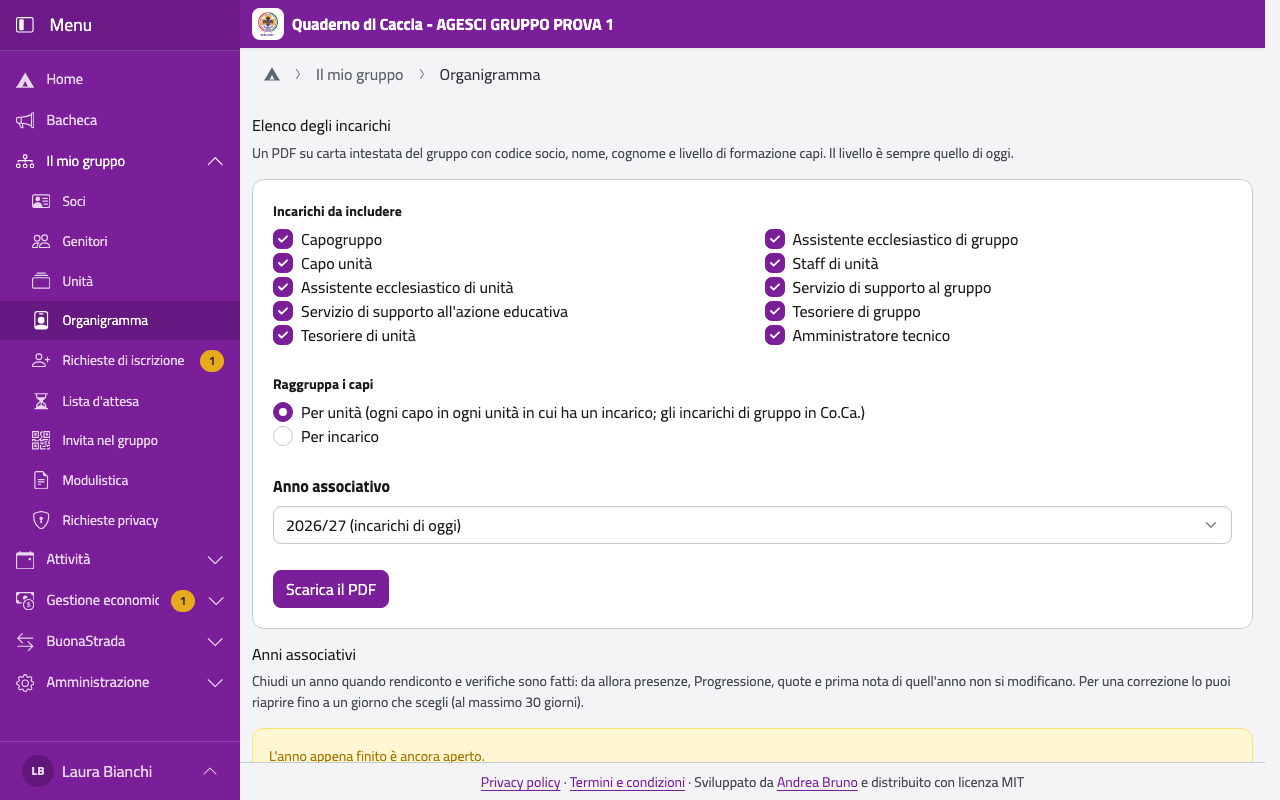
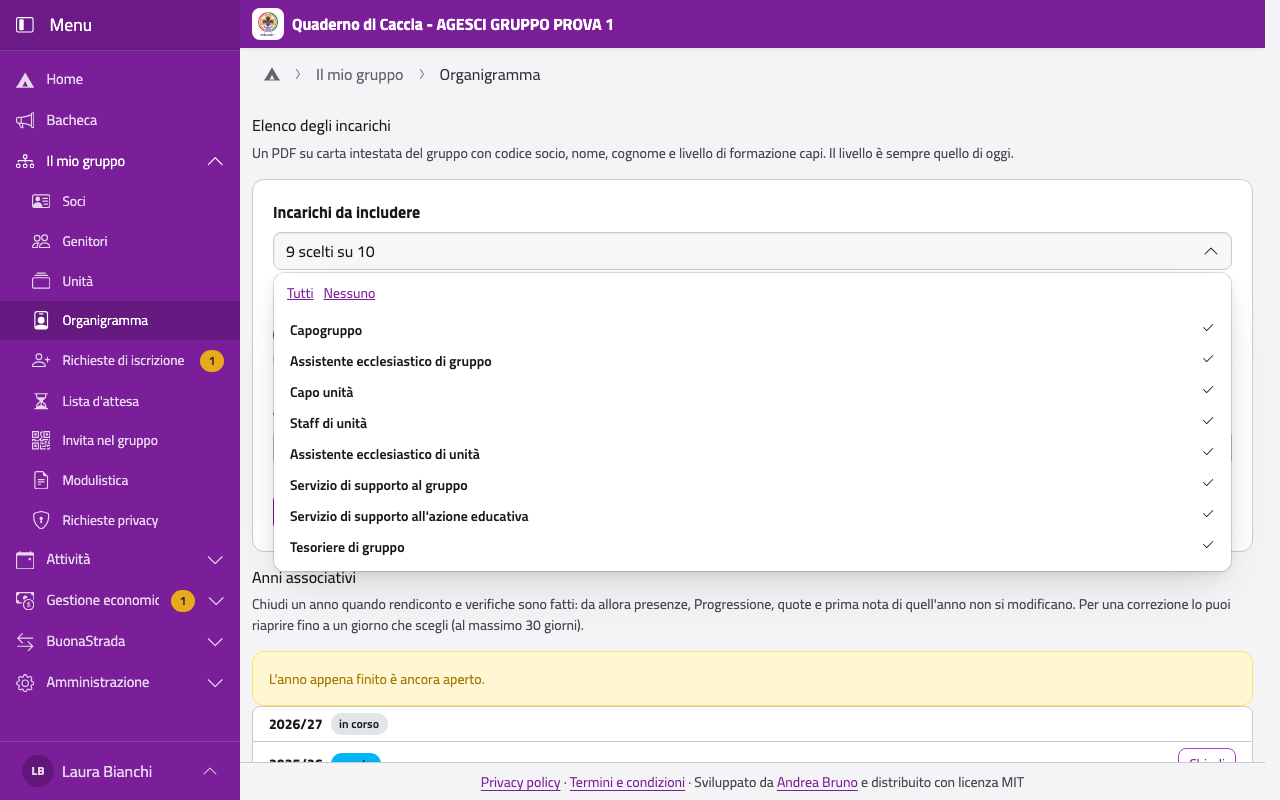
Roles PDF: the kinds of role chosen from a multiple-choice drop-down
Claude-Session: https://claude.ai/code/session_01FnZgpZGrP1XpFxzNCreMTh

Changed region(s): [[0.1875, 0.25, 1.0, 0.9688], [0.5938, 0.2812, 0.8125, 0.4375], [0.9375, 0.3125, 0.9688, 0.3438]]

diff --git a/frontend/src/components/SceltaMultipla.vue b/frontend/src/components/SceltaMultipla.vue
@@ -1,0 +1,88 @@
+<script setup lang="ts">
+import Menu from 'bootstrap/js/dist/menu.js'
+import { computed, onBeforeUnmount, onMounted, ref } from 'vue'
+
+import Icona from '@/components/Icona.vue'
+
+// Several choices from a drop-down list (DEC-306): Bootstrap 6's combobox markup with
+// its menu, the choice kept here (Bootstrap's own combobox writes its summary in
+// English). The menu stays open while ticking.
+const props = defineProps<{ id: string; scelte: { valore: string; nome: string }[] }>()
+const valori = defineModel<string[]>({ required: true })
+
+const pulsante = ref<HTMLButtonElement | null>(null)
+const menu = ref<HTMLElement | null>(null)
+let tendina: Menu | null = null
+
+onMounted(() => {
+  if (pulsante.value && menu.value) {
+    tendina = new Menu(pulsante.value, { menu: menu.value, autoClose: 'outside' })
+    pulsante.value.addEventListener('show.bs.menu', allarga)
+  }
+})
+
+onBeforeUnmount(() => {
+  pulsante.value?.removeEventListener('show.bs.menu', allarga)
+  tendina?.dispose()
+})
+
+// As wide as the field it opens from.
+function allarga() {
+  if (pulsante.value && menu.value) menu.value.style.width = `${pulsante.value.offsetWidth}px`
+}
+
+const riepilogo = computed(() => {
+  const n = valori.value.length
+  if (n === 0) return 'Nessuno'
+  if (n === props.scelte.length) return 'Tutti'
+  if (n === 1) return props.scelte.find((s) => s.valore === valori.value[0])?.nome ?? '1 scelto'
+  return `${n} scelti su ${props.scelte.length}`
+})
+
+function cambia(valore: string) {
+  valori.value = valori.value.includes(valore)
+    ? valori.value.filter((v) => v !== valore)
+    : // In the order of the list, whatever the order of the taps.
+      props.scelte.map((s) => s.valore).filter((v) => v === valore || valori.value.includes(v))
+}
+
+const tutti = (si: boolean) => (valori.value = si ? props.scelte.map((s) => s.valore) : [])
+</script>
+
+<template>
+  <div>
+    <button
+      :id="id"
+      ref="pulsante"
+      type="button"
+      class="form-control combobox-toggle"
+      data-bs-toggle="menu"
+      aria-haspopup="listbox"
+      aria-expanded="false"
+    >
+      <span class="combobox-value" :class="{ 'combobox-placeholder': !valori.length }">
+        {{ riepilogo }}
+      </span>
+      <Icona nome="chevron-down" class="combobox-caret" />
+    </button>
+    <div ref="menu" class="menu" role="listbox" aria-multiselectable="true">
+      <div class="d-flex gap-3 px-3 pb-1 small">
+        <button type="button" class="btn btn-link btn-sm p-0" @click="tutti(true)">Tutti</button>
+        <button type="button" class="btn btn-link btn-sm p-0" @click="tutti(false)">Nessuno</button>
+      </div>
+      <button
+        v-for="s in scelte"
+        :key="s.valore"
+        type="button"
+        class="menu-item"
+        role="option"
+        :class="{ selected: valori.includes(s.valore) }"
+        :aria-selected="valori.includes(s.valore)"
+        @click="cambia(s.valore)"
+      >
+        <span class="menu-item-content">{{ s.nome }}</span>
+        <Icona nome="check2" class="menu-item-check" />
+      </button>
+    </div>
+  </div>
+</template>

diff --git a/frontend/src/__tests__/scelta-multipla.spec.ts b/frontend/src/__tests__/scelta-multipla.spec.ts
@@ -1,0 +1,59 @@
+import { mount } from '@vue/test-utils'
+import { describe, expect, it } from 'vitest'
+
+import SceltaMultipla from '@/components/SceltaMultipla.vue'
+
+const SCELTE = [
+  { valore: 'A', nome: 'Capogruppo' },
+  { valore: 'B', nome: 'Staff' },
+  { valore: 'C', nome: 'Tesoriere' },
+]
+
+const monta = (valori: string[]) =>
+  mount(SceltaMultipla, {
+    attachTo: document.body,
+    props: {
+      id: 'prova',
+      scelte: SCELTE,
+      modelValue: valori,
+      'onUpdate:modelValue': (v: string[]) => monta.ultimo.push(v),
+    },
+  })
+monta.ultimo = [] as string[][]
+
+describe('SceltaMultipla', () => {
+  it('sums up the choice in Italian', async () => {
+    const scelta = monta(['A', 'B', 'C'])
+    expect(scelta.get('.combobox-value').text()).toBe('Tutti')
+    await scelta.setProps({ modelValue: ['B'] })
+    expect(scelta.get('.combobox-value').text()).toBe('Staff')
+    await scelta.setProps({ modelValue: ['A', 'C'] })
+    expect(scelta.get('.combobox-value').text()).toBe('2 scelti su 3')
+    await scelta.setProps({ modelValue: [] })
+    expect(scelta.get('.combobox-value').text()).toBe('Nessuno')
+    scelta.unmount()
+  })
+
+  it('ticks and unticks, keeping the order of the list', async () => {
+    monta.ultimo = []
+    const scelta = monta(['C'])
+    const voci = scelta.findAll('[role="option"]')
+    expect(voci[2]!.attributes('aria-selected')).toBe('true')
+    await voci[0]!.trigger('click')
+    expect(monta.ultimo.at(-1)).toEqual(['A', 'C'])
+    await voci[2]!.trigger('click')
+    expect(monta.ultimo.at(-1)).toEqual([])
+    scelta.unmount()
+  })
+
+  it('chooses all or none at once', async () => {
+    monta.ultimo = []
+    const scelta = monta(['B'])
+    const [tutti, nessuno] = scelta.findAll('.menu button.btn-link')
+    await tutti!.trigger('click')
+    expect(monta.ultimo.at(-1)).toEqual(['A', 'B', 'C'])
+    await nessuno!.trigger('click')
+    expect(monta.ultimo.at(-1)).toEqual([])
+    scelta.unmount()
+  })
+})

diff --git a/frontend/src/components/StampaIncarichi.vue b/frontend/src/components/StampaIncarichi.vue
@@ -2,6 +2,7 @@
 import { computed, onMounted, ref } from 'vue'
 
 import { api, elencoIncarichiPdf, type OpzioniElencoIncarichi } from '@/api/qdc'
+import SceltaMultipla from '@/components/SceltaMultipla.vue'
 import { useErrore } from '@/composables/useErrore'
 
 // The PDF list of the group's roles, for the capigruppo (DEC-284): the kinds of role,
@@ -36,21 +37,14 @@ const indirizzo = computed(() =>
   </p>
   <div v-if="errore" class="alert theme-danger small" role="alert">{{ errore }}</div>
   <div v-if="opzioni" class="card card-body">
-    <fieldset class="mb-5">
-      <legend class="small fw-bold">Incarichi da includere</legend>
-      <div class="row">
-        <div v-for="r in opzioni.ruoli" :key="r.valore" class="col-12 md:col-6 form-field">
-          <input
-            :id="`elenco-${r.valore}`"
-            v-model="scelti"
-            type="checkbox"
-            class="check"
-            :value="r.valore"
-          />
-          <label :for="`elenco-${r.valore}`">{{ r.nome }}</label>
-        </div>
-      </div>
-    </fieldset>
+    <div class="mb-5">
+      <label for="elenco-ruoli" class="form-label small fw-bold">Incarichi da includere</label>
+      <SceltaMultipla
+        id="elenco-ruoli"
+        v-model="scelti"
+        :scelte="opzioni.ruoli.map((r) => ({ valore: r.valore, nome: r.nome }))"
+      />
+    </div>
     <fieldset class="mb-5">
       <legend class="small fw-bold">Raggruppa i capi</legend>
       <div class="form-field">

diff --git a/frontend/src/navigazione/icone.ts b/frontend/src/navigazione/icone.ts
@@ -16,6 +16,7 @@ import calendar3 from 'bootstrap-icons/icons/calendar3.svg?raw'
 import cashCoin from 'bootstrap-icons/icons/cash-coin.svg?raw'
 import cash from 'bootstrap-icons/icons/cash.svg?raw'
 import chatText from 'bootstrap-icons/icons/chat-text.svg?raw'
+import check2 from 'bootstrap-icons/icons/check2.svg?raw'
 import check2Square from 'bootstrap-icons/icons/check2-square.svg?raw'
 import chevronDown from 'bootstrap-icons/icons/chevron-down.svg?raw'
 import chevronLeft from 'bootstrap-icons/icons/chevron-left.svg?raw'
@@ -99,6 +100,7 @@ export const ICONE = {
   cash: cash,
   'cash-coin': cashCoin,
   'chat-text': chatText,
+  check2: check2,
   'check2-square': check2Square,
   'chevron-down': chevronDown,
   'chevron-left': chevronLeft,

diff --git a/frontend/scripts/schermate.ts b/frontend/scripts/schermate.ts
@@ -687,10 +687,16 @@ const SCENE: Scena[] = [
   },
   { nome: 'gruppo/incarichi', chi: 'capogruppo', percorso: '/gruppo', intera: true },
   {
+    // The menu of the kinds of role open, one of them unticked.
     nome: 'gruppo/elenco-incarichi',
     chi: 'capogruppo',
     percorso: '/gruppo',
     mostra: 'Elenco degli incarichi',
+    prepara: async (pagina) => {
+      await pagina.locator('#elenco-ruoli').click()
+      await pagina.locator('#elenco-ruoli + .menu [role=option]').last().click()
+      await pagina.locator('#elenco-ruoli + .menu').evaluate((m) => (m.scrollTop = 0))
+    },
   },
   { nome: 'gruppo/impostazioni', chi: 'capogruppo', percorso: '/impostazioni', intera: true },
   {

diff --git a/TODO.md b/TODO.md
@@ -285,12 +285,13 @@ negli aggiornamenti che partono dalla 1.10.
 Richieste del maintainer del 03/11, solo annotate: si sviluppano quando il maintainer dice di
 partire. Risposte alle domande date il 03/11; il maintainer ha detto di partire il 03/11, DEC-306…DEC-315 nell'analisi. Ordine: N.49, N.40, N.48, N.46, N.47, N.42, N.43, N.41, N.44, N.45.
 
-#### N.40 — Organigramma: tipi di incarico scelti da un menu a selezione multipla ⏳ (DEC-306)
+#### N.40 — Organigramma: tipi di incarico scelti da un menu a selezione multipla ✅ 03/11 (DEC-306)
 
 Nel PDF dell'organigramma i tipi di incarico da includere si scelgono oggi con caselle di
 spunta: al loro posto un menu a tendina con più scelte (combobox). **Solo lì** (deciso il 03/11):
-l'assegnazione degli incarichi resta com'è. Da verificare cosa offre Bootstrap 6 alpha (forse un
-componente nostro).
+l'assegnazione degli incarichi resta com'è. Fatto: `components/SceltaMultipla.vue`, con il
+markup del combobox di Bootstrap 6 e il suo menu (il combobox di Bootstrap scrive il riepilogo in
+inglese), «Tutti» e «Nessuno» in cima; schermata del manuale rifatta.
 
 #### N.41 — Genitore che diventa capo, in due passi annullabili ⏳ (DEC-307) (sostituisce DEC-282)
 

diff --git a/docs/manuale/gruppo/organizzazione.md b/docs/manuale/gruppo/organizzazione.md
@@ -76,7 +76,9 @@ In fondo alla pagina, in **Elenco degli incarichi**, un capogruppo stampa un PDF
 intestata del gruppo con codice socio, cognome, nome e livello di formazione capi di ogni
 capo.
 
-1. Spunta gli **Incarichi da includere** (di base ci sono tutti).
+1. Apri il menu **Incarichi da includere** e tocca gli incarichi da togliere o da
+   rimettere (di base ci sono tutti; **Tutti** e **Nessuno** in cima li scelgono in un colpo).
+   Tocca fuori dal menu per chiuderlo.
 2. Scegli come raggruppare i capi: **Per unità** o **Per incarico**. Per unità, ogni
    incarico sta nella sua sezione: quelli di un'unità nell'unità, quelli di gruppo
    (capogruppo, assistente ecclesiastico di gruppo, tesoriere di gruppo, amministratore,
